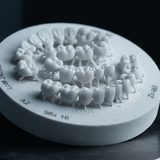
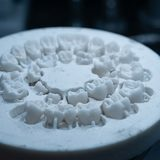
fix(materials): диски цирконію і PMMA показували фізично неможливе
Власник спіймав: на кадрах коронки НАРОСТАЛИ на диску, наче надруковані.
Насправді їх вирізає фреза в тілі диска — коронка сидить усередині його
товщини, матеріал навколо вифрезеруваний, а тримається вона на тонких
перемичках до решти диска.

Перемальовано обидва диски з правильною геометрією: коронки втоплені в
площину заготовки, навколо них наскрізні кишені з пилом, видно перемички.
На екрані про матеріали неправдива картинка гірша за відсутню — оператор
щодня бачить справжні диски.

Ті самі кадри заодно без вигаданого гравіювання, яке модель домалювала
раніше («Lot# 240905»): на екрані про матеріали фальшиве маркування
читається як дані.

diff --git a/design/kuubmill_mat-zr-b_20260831.png.log.md b/design/kuubmill_mat-zr-b_20260831.png.log.md
@@ -1,0 +1,10 @@
+# kuubmill_mat-zr-b_20260831.png
+- модель: nano-banana-2-lite (Kie AI)
+- задача: 14326ca9e64e0003fc16824df28e8273
+- кредитів списано: 4.0
+- референс: —
+- параметри: 16:9 2K
+- промпт: |
+    Top-down macro photo of a white zirconia dental milling disc (round 98mm blank) after CNC milling. The crowns are cut INSIDE the body of the disc, sitting flush within its thickness — the machine has milled away the material around each crown, leaving open pockets through the blank, and every crown is still held in place by thin sprue connector bars to the surrounding disc. The crowns do NOT stand above the disc surface and are NOT stacked on top of it: they are recessed inside the plane of the disc, like parts cut from sheet stock. Fine white zirconia dust in the machined pockets. Cool blue-white light, near-black background. Disc in the lower-left of frame, right side fading to darkness. Photorealistic macro. No engraved text, no labels, no branding, 16:9
+- URL результату:
+    https://tempfile.aiquickdraw.com/vnp/14326ca9e64e0003fc16824df28e8273_1788150125.jpeg

diff --git a/design/kuubmill_mat-pmma-c_20260831.png.log.md b/design/kuubmill_mat-pmma-c_20260831.png.log.md
@@ -1,0 +1,10 @@
+# kuubmill_mat-pmma-c_20260831.png
+- модель: nano-banana-2-lite (Kie AI)
+- задача: 22eb82c5dc0213dc78fe7625235eee85
+- кредитів списано: 4.0
+- референс: —
+- параметри: 16:9 2K
+- промпт: |
+    Top-down macro photo of a translucent honey-amber PMMA dental milling disc (round blank) after CNC milling. The temporary crowns are cut INSIDE the body of the disc, sitting flush within its thickness — the machine has milled away the material around each crown leaving open pockets through the blank, and every crown is still held by thin sprue connector bars to the surrounding disc. The crowns do NOT stand above the disc surface and are NOT stacked on top of it: they are recessed inside the plane of the disc, like parts cut from sheet stock. Warm light glowing through the translucent amber acrylic. Near-black background. Disc in the lower-left of frame, right side fading to darkness. Photorealistic macro. No engraved text, no labels, no branding, 16:9
+- URL результату:
+    https://tempfile.aiquickdraw.com/vnp/22eb82c5dc0213dc78fe7625235eee85_1788150203.jpeg
